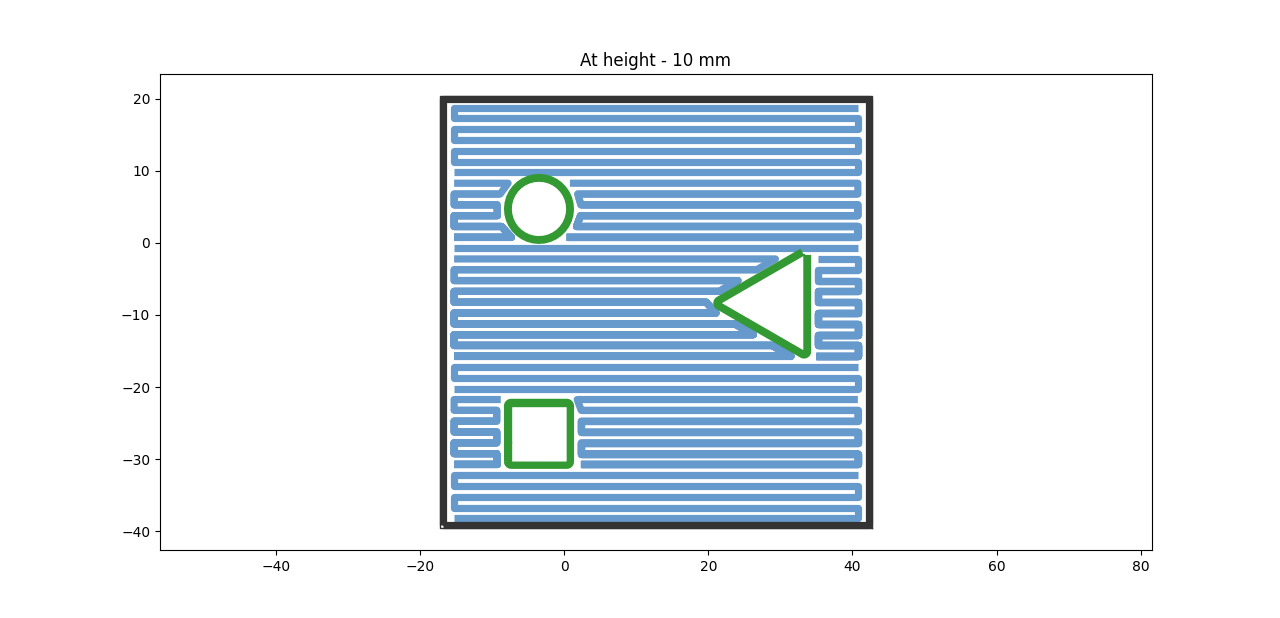
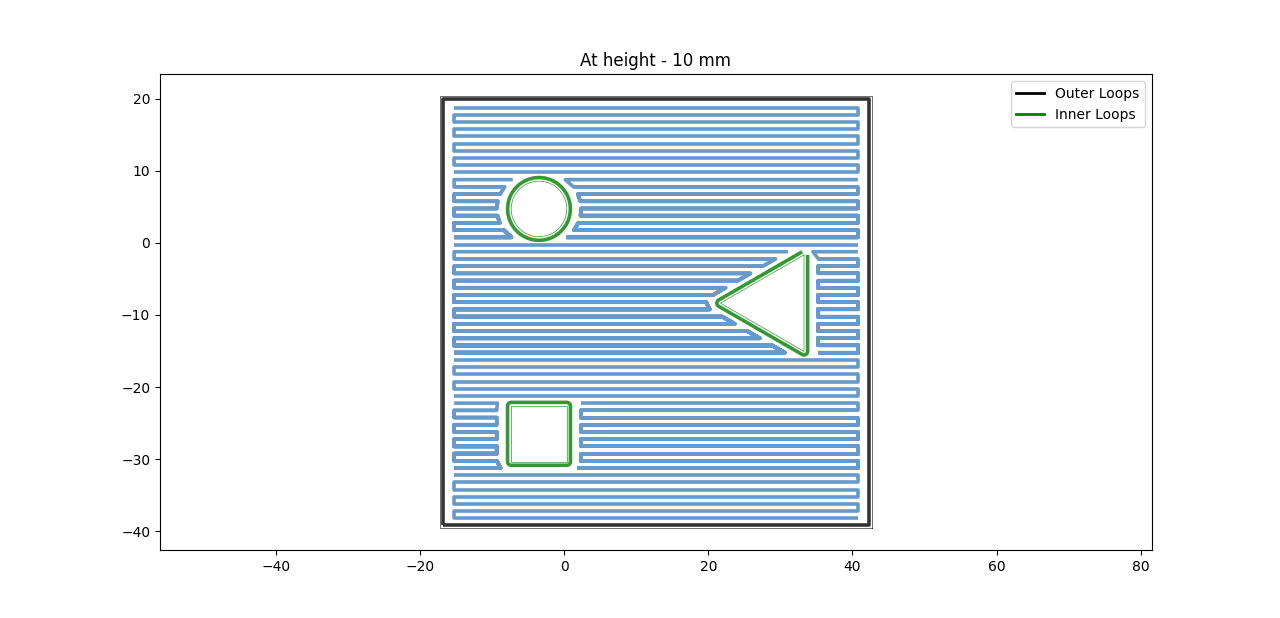
Added some results

Changed region(s): [[0.3438, 0.1537, 0.6875, 0.8608], [0.7812, 0.123, 0.9062, 0.2152]]

diff --git a/main.py b/main.py
@@ -13,8 +13,6 @@ from descartes import PolygonPatch
 
 from figures import SIZE, BLUE, GRAY, GREEN, DARKGRAY, set_limits, plot_line
 
-from sympy import Point, Line
-
 print('Solution by Snehil Saluja. Please keep on closing the windows opening while the code runs to proceed further.')
 
 mesh = trimesh.load('./assignment.stl')
@@ -26,8 +24,12 @@ def add_shell(ax, x, y, count, air_gap, shell_width, mode="inner"):
 
     if(mode == "inner"):
         shell = +1
+        color = GREEN
+        loc = 'left'
     elif(mode == "outer"):
         shell = -1
+        color = DARKGRAY
+        loc = 'right'
 
     for i in range(1, count+1):
         if(mode == "inner"):
@@ -45,17 +47,17 @@ def add_shell(ax, x, y, count, air_gap, shell_width, mode="inner"):
     return offset
 
 
-def plot_maze(ax, line, turn, anyline, air_gap):
+def plot_maze(ax, line, turn, anyline, air_gap, raster_width):
 
     if(len(list(line.coords)) > 0):
         coords = list(line.coords)
         if(turn == 'odd'):
-            anyline.append((coords[0][0]+air_gap, coords[0][1]))
-            anyline.append((coords[1][0]-air_gap, coords[1][1]))
+            anyline.append((coords[0][0]+air_gap + raster_width, coords[0][1]))
+            anyline.append((coords[1][0]-air_gap - raster_width, coords[1][1]))
             turn = 'even'
         elif(turn == 'even'):
-            anyline.append((coords[1][0]-air_gap, coords[1][1]))
-            anyline.append((coords[0][0]+air_gap, coords[0][1]))
+            anyline.append((coords[1][0]-air_gap - raster_width, coords[1][1]))
+            anyline.append((coords[0][0]+air_gap + raster_width, coords[0][1]))
             turn = 'odd'
 
         return anyline
@@ -63,12 +65,12 @@ def plot_maze(ax, line, turn, anyline, air_gap):
 
 def infill(ax, polygon, x, y, air_gap, raster_width):
 
-    i = min(y) + 4*air_gap
+    i = min(y) + air_gap + raster_width
     turn = 'odd'
     mainmultiline = []
     mainline = []
 
-    while(i < (max(y) - 4*air_gap)):
+    while(i < (max(y) - air_gap - raster_width)):
         intersection_line = LineString([(-5000, i), (5000, i)])
         try:
             collect = polygon.intersection(intersection_line)
@@ -86,7 +88,7 @@ def infill(ax, polygon, x, y, air_gap, raster_width):
                 turn = 'odd'
             for j, line in enumerate(list(collect.geoms)):
                 plot_maze(
-                    ax, line, turnarray[j], mainmultiline[j], air_gap + raster_width/2)
+                    ax, line, turnarray[j], mainmultiline[j], air_gap, raster_width)
                 if(turnarray[j] == 'even'):
                     turnarray[j] = 'odd'
                 elif(turnarray[j] == 'odd'):
@@ -100,7 +102,7 @@ def infill(ax, polygon, x, y, air_gap, raster_width):
             if(mainmultiline != []):
                 mainmultiline = []
                 turn = 'odd'
-            plot_maze(ax, collect, turn, mainline, air_gap + raster_width/2)
+            plot_maze(ax, collect, turn, mainline, air_gap, raster_width)
             if(turn == 'even'):
                 turn = 'odd'
             elif(turn == 'odd'):
@@ -154,17 +156,15 @@ def slicer(height, air_gap, width):
         new_x = np.divide((x + y), 2**0.5)
         new_y = np.divide((y - x), 2**0.5)
 
-        sorted_y = np.sort(list(set([round(num, 4) for num in new_y])))
-
-        infill(ax, new_polygon, x, y,
+        infill(ax, new_polygon, new_x, new_y,
                air_gap=air_gap, raster_width=width)
 
         ax.axis('equal')
 
-    # custom_lines = [Line2D([0], [0], color='black', lw=2),
-    #                 Line2D([0], [0], color='green', lw=2)]
+    custom_lines = [Line2D([0], [0], color='black', lw=2),
+                    Line2D([0], [0], color='green', lw=2)]
 
-    # ax.legend(custom_lines, ['Outer Loops', 'Inner Loops'])
+    ax.legend(custom_lines, ['Outer Loops', 'Inner Loops'])
 
     plt.title('At height - ' + str(height) + " mm")
 
@@ -179,7 +179,7 @@ def assignment_new():
     print('Running for step heights 20 mm cross sections')
 
     for i in range(10, height+1, 20):
-        slicer(i, air_gap=0.5, width=1)
+        slicer(i, air_gap=0.5, width=0.5)
 
 
 def main():

diff --git a/figures.py b/figures.py
@@ -23,3 +23,11 @@ def plot_line(ax, ob, color=GRAY, zorder=1, linewidth=3, alpha=1):
                          solid_capstyle='butt', zorder=zorder, alpha=alpha)
 
     ax.add_line(line)
+
+
+def set_limits(ax, x0, xN, y0, yN):
+    ax.set_xlim(x0, xN)
+    ax.set_xticks(range(x0, xN+1))
+    ax.set_ylim(y0, yN)
+    ax.set_yticks(range(y0, yN+1))
+    ax.set_aspect("equal")
